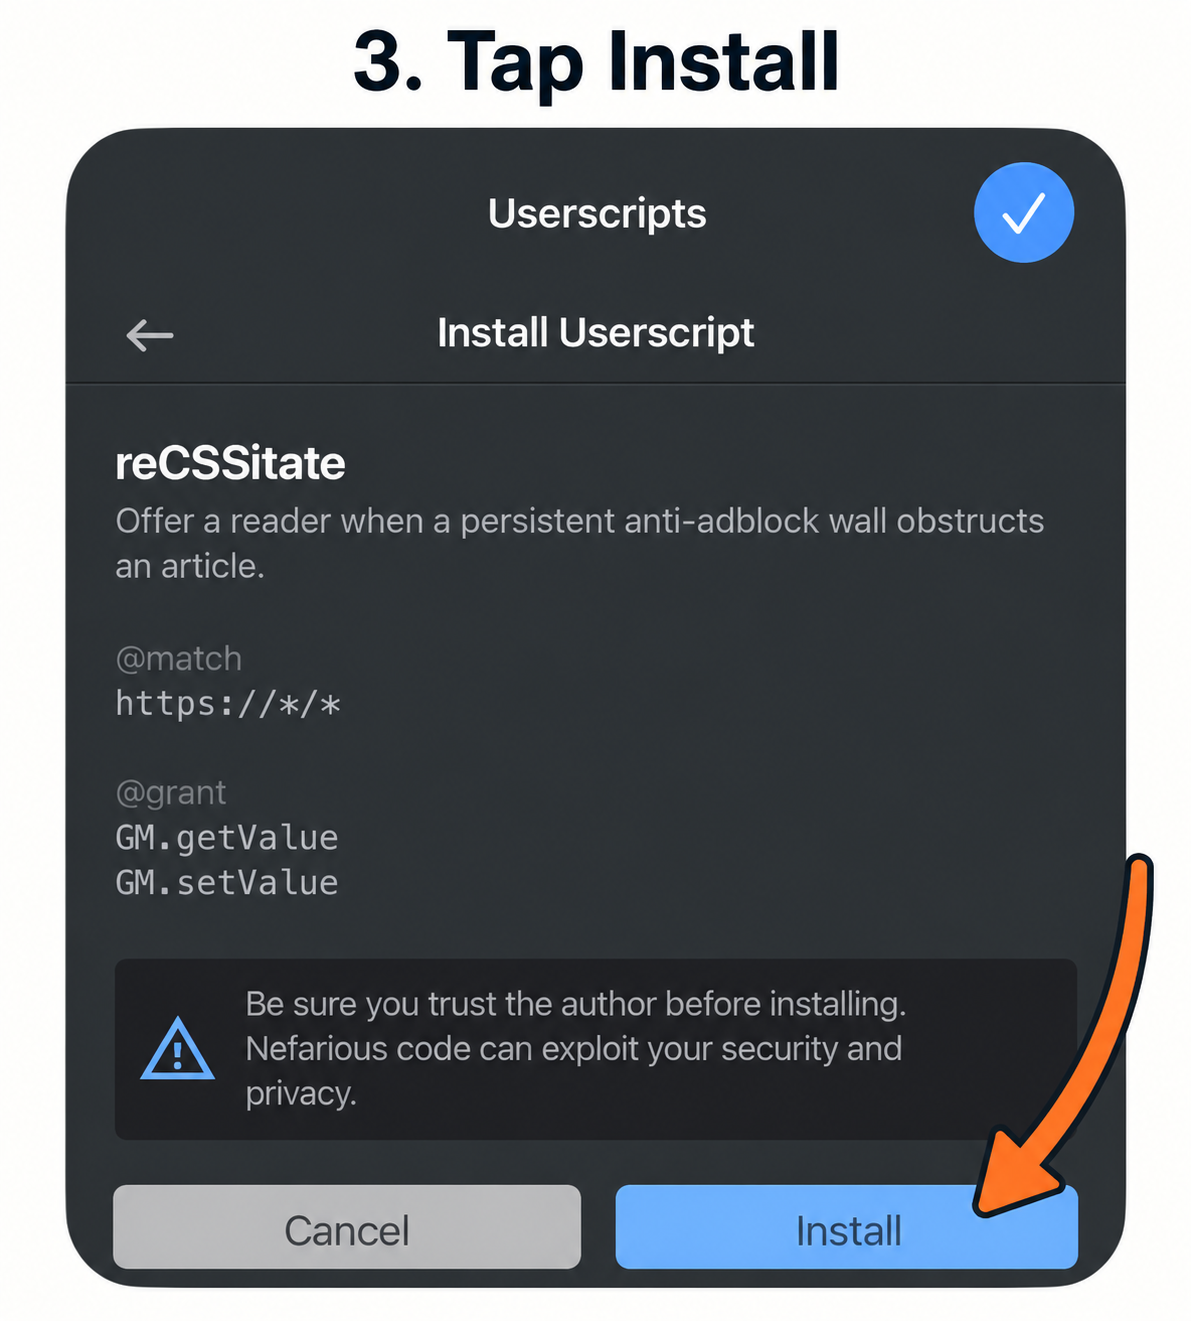
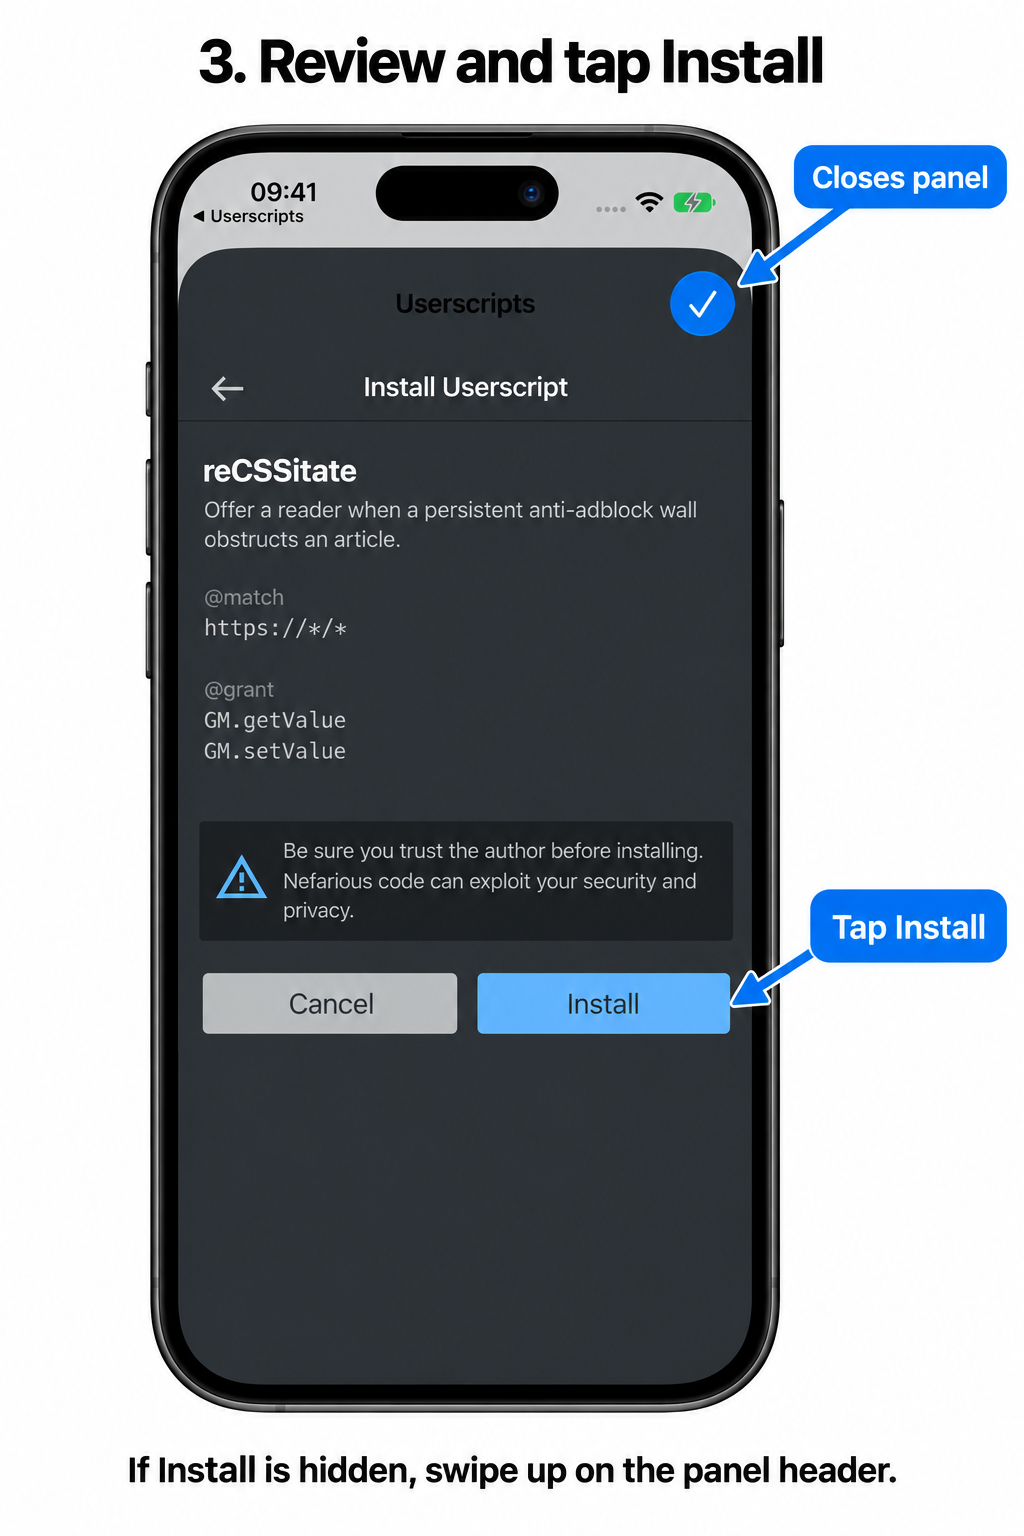
docs: refresh iPhone guides with full-device simulator captures

diff --git a/web/index.html b/web/index.html
@@ -4,11 +4,12 @@
 <form id="open"><label for="url">Article address</label><div class="controls"><input id="url" type="url" required placeholder="https://…" autocomplete="off"><button>Read article</button></div></form>
 <p><a id="signin" href="/signin">Sign in to the reader</a></p><p id="status" role="status" aria-live="polite"></p><p><a id="original" hidden rel="noreferrer" target="_blank">Open original article</a></p>
 <section id="setup"><h2>One-tap bookmark</h2><p>No extension needed. When an article gets stuck, tap this bookmark to open it here.</p><p><a id="bookmarklet">Read with reCSSitate</a> <button id="copy-bookmarklet" type="button">Copy bookmarklet</button></p><label for="bookmarklet-code">Bookmark address</label><textarea id="bookmarklet-code" readonly rows="3"></textarea><p>On iPhone: bookmark this page, then open Safari’s bookmarks, tap Edit, and replace that bookmark’s address with the copied code. Name it “reCSSitate”. Open a news article and choose the bookmark to use it.</p><h2>Automatic rescue button</h2><p>Install the free <a href="https://github.com/quoid/userscripts" rel="noreferrer">Userscripts extension for Safari</a>, enable it in iOS Settings → Apps → Safari → Extensions, and allow it on the news sites you read. Then open the script below and choose Userscripts from Safari’s extensions menu to install it.</p><p><a href="/recssitate.user.js">Install reCSSitate userscript</a></p><details id="ios-install"><summary>iPhone installation, step by step</summary>
-<p>After enabling the Userscripts Safari extension, open the script link above. Seeing JavaScript source is expected. Allow Userscripts access to your reader server.</p>
+<p>Open the Userscripts app once to initialize its scripts folder. After enabling its Safari extension, open the script link above. Seeing JavaScript source is expected. Allow Userscripts access to your reader server.</p>
 <div class="install-steps">
-<figure><img src="/assets/ios-install/01-open-userscripts.png" alt="Step 1: in Safari on iOS 27, tap the three-line Page Menu icon at the left of the address field, then choose Userscripts." loading="lazy"><figcaption>In the <strong>Safari app on iOS 27</strong>, tap <strong>Page Menu</strong> at the <strong>left of the address field</strong>—the three-line icon with a shorter bottom line. Then choose <strong>Userscripts</strong>. If the toolbar is hidden, tap the bottom of the screen to reveal it.</figcaption></figure>
+<figure><img src="/assets/ios-install/01-open-userscripts.png" alt="Step 1a: full iPhone screen in Safari on iOS 27, with the three-line Page Menu icon at the left of the address field highlighted." loading="lazy"><figcaption>In the <strong>Safari app on iOS 27</strong>, tap <strong>Page Menu</strong> at the <strong>left of the address field</strong>—the three-line icon with a shorter bottom line. If the toolbar is hidden, tap the bottom of the screen to reveal it.</figcaption></figure>
+<figure><img src="/assets/ios-install/01b-choose-userscripts.png" alt="Step 1b: scroll inside Safari’s Page Menu and tap Userscripts." loading="lazy"><figcaption>Scroll <strong>inside Page Menu</strong> if needed, then tap <strong>Userscripts</strong>. If it says <strong>Permission Required</strong>, choose <strong>Always Allow… → Always Allow on This Website</strong> for your reader. Open Userscripts again if the menu closes.</figcaption></figure>
 <figure><img src="/assets/ios-install/02-detected.png" alt="Step 2: tap the yellow Userscript Detected banner." loading="lazy"><figcaption>Tap the yellow <strong>Userscript Detected: Tap to install</strong> banner.</figcaption></figure>
-<figure><img src="/assets/ios-install/03-install.png" alt="Step 3: review reCSSitate and tap the blue Install button at the bottom." loading="lazy"><figcaption>Check that the script is <strong>reCSSitate</strong>, then tap <strong>Install</strong> at the bottom. The checkmark at the top only closes the popup.</figcaption></figure>
+<figure><img src="/assets/ios-install/03-install.png" alt="Step 3: full iPhone screen with an expanded Userscripts panel and an arrow pointing to the blue Install button below the warning." loading="lazy"><figcaption>Check that the script is <strong>reCSSitate</strong>, then tap <strong>Install</strong> below the warning. If the button is cut off, <strong>swipe up on the panel header</strong> to expand it. The checkmark at the top only closes the popup.</figcaption></figure>
 <figure><img src="/assets/ios-install/04-installed.png" alt="Step 4: confirm the green installed banner and tap the blue checkmark to close." loading="lazy"><figcaption>The green banner confirms installation. Leave the switch on and tap the blue checkmark to close. You do not need to re-install.</figcaption></figure>
 </div><p>Return to an article and reload it if it was already open. Allow the extension on the sites where you want the button. Readable pages will not show a rescue button.</p></details><p>The button appears only after a large anti-adblock obstruction persists. It never sends an article here until you tap. You can also paste an article address above.</p></section>
 <iframe id="article" title="Readable article" sandbox="allow-popups allow-popups-to-escape-sandbox" referrerpolicy="no-referrer" hidden></iframe>

diff --git a/docs/IOS-CERTIFICATE.md b/docs/IOS-CERTIFICATE.md
@@ -5,10 +5,10 @@ Safari warns that the connection is not private. Installing the certificate and
 enabling SSL/TLS trust are **two separate steps**. Do this once on each device.
 If your reader already uses a publicly trusted certificate, skip this guide.
 
-The two annotated reference images below are adapted from Apple's published
-screenshots. They illustrate the relevant controls in an older iOS layout;
-they are **not captures of iOS 27**. Account information has been removed, and
-no deployment addresses or real certificate details are included.
+The images show the full screen of an **iPhone 17 Pro simulator running iOS 27**,
+with device frames and arrows added. A disposable **reCSSitate Demo CA** stands
+in for your server's certificate. Addresses and device identifiers are blacked
+out; no personal account or production certificate is shown.
 
 You need the **public root CA certificate** and the HTTPS reader address from
 the person who runs your server. Ask them to confirm the certificate's name and
@@ -25,13 +25,15 @@ message. This downloads the certificate; it does not install it yet.
 The download address and reader address may be different. Use the links your
 administrator provides. Do not install an example certificate from a tutorial.
 
+<img src="assets/ios-certificate/01-download.png" alt="Full iPhone screen in Safari, with an arrow pointing to Allow in the configuration-profile download prompt. The address is blacked out." width="720">
+
 ## 2. Open the downloaded profile in Settings
 
 Open **Settings**, then tap **Profile Downloaded** near the top. If that shortcut
 is absent, look under **General → VPN & Device Management** and select the
 downloaded profile.
 
-<img src="assets/ios-certificate/02-profile-downloaded.png" alt="Annotated Apple reference image: open Settings and tap the Profile Downloaded row." width="720">
+<img src="assets/ios-certificate/02-profile-downloaded.png" alt="Full iOS 27 Settings screen, with an arrow pointing to Profile Downloaded." width="720">
 
 Install promptly: iOS removes a downloaded profile after eight minutes if you
 have not installed it. If it disappeared, download it again.
@@ -48,10 +50,14 @@ when installation finishes. A local root may be described as not verified before
 you trust it; confirm its identity with your administrator rather than trusting
 an unfamiliar profile.
 
+<img src="assets/ios-certificate/03-install.png" alt="Full iPhone Install Profile screen for a demo certificate, with an arrow pointing to Install in the top-right corner." width="720">
+
 ## 4. Find Certificate Trust Settings
 
 In **Settings**, go to **General → About**, scroll to the bottom, then tap
 **Certificate Trust Settings**.
+
+<img src="assets/ios-certificate/04-about.png" alt="Full iPhone About screen, with the device identifier blacked out and an arrow pointing to Certificate Trust Settings near the bottom." width="720">
 
 ## 5. Enable full trust
 
@@ -59,7 +65,7 @@ Under **Enable Full Trust for Root Certificates**, turn on the switch for your
 reader's root certificate. Confirm the **Root Certificate** warning with
 **Continue**. Leave unrelated certificates alone.
 
-<img src="assets/ios-certificate/05-enable-trust.png" alt="Annotated Apple reference image: in Certificate Trust Settings, enable the switch for your own reader's root certificate. Certificate 1 and Certificate 2 are example names." width="720">
+<img src="assets/ios-certificate/05-enable-trust.png" alt="Full iPhone Certificate Trust Settings screen, with an arrow pointing to the enabled green switch for the demo root certificate. Enable your own reader's certificate." width="720">
 
 Caddy's default name commonly starts with **Caddy Local Authority**; your
 administrator may have chosen another name. If the certificate does not appear,
@@ -70,6 +76,8 @@ finish installing its profile in steps 2–3 first.
 Return to Safari and reopen your reader's **HTTPS** address. The certificate
 warning should be gone. Choose **Sign in to the reader** and enter the reader
 username and password supplied by your administrator.
+
+<img src="assets/ios-certificate/06-reader.png" alt="Full iPhone Safari screen showing the reader without a certificate warning, with an arrow pointing to Sign in to the reader. Addresses and bookmark code are blacked out." width="720">
 
 If a warning remains, verify that full trust is enabled and that you opened the
 exact hostname or IP address covered by the server certificate. Also check the
@@ -100,7 +108,6 @@ Management**, select its profile, and tap **Remove Profile**.
 - [Install a configuration profile](https://support.apple.com/en-ae/102400)
 - [Trust a manually installed certificate](https://support.apple.com/en-ie/102390)
 
-The illustrations are cropped and annotated adaptations of the screenshots in
-these Apple articles, with account details omitted. Apple's interface images
-remain Apple's property and are not covered by this project's MIT licence.
-Screen wording and layout can vary by iOS version.
+Screens were captured in a clean simulator, then annotated and framed for this
+guide. Apple's interface remains Apple's property and is not covered by this
+project's MIT licence. Screen wording and layout can vary by iOS version.

diff --git a/docs/IOS.md b/docs/IOS.md
@@ -4,9 +4,10 @@ If Safari warns about your reader's certificate, first follow the
 [iPhone certificate installation and trust guide](IOS-CERTIFICATE.md).
 
 After installing the [Userscripts app](https://github.com/quoid/userscripts),
-enable its Safari extension and allow access to your reader server and the sites
-where you want the rescue button. Open your reader's landing page in Safari and
-tap **Install reCSSitate userscript**. Seeing JavaScript source is expected.
+open it once to initialize its scripts folder. Enable its Safari extension and
+allow access to your reader server and the sites where you want the rescue
+button. Open your reader's landing page in Safari and tap **Install reCSSitate
+userscript**. Seeing JavaScript source is expected.
 
 ## 1. Open Page Menu inside Safari (iOS 27)
 
@@ -17,7 +18,14 @@ a shorter bottom line. Then choose **Userscripts** from that menu.
 The address field may be at the top or bottom depending on your Safari layout.
 If the toolbar is hidden, tap the bottom of the screen to reveal it.
 
-<img src="../web/assets/ios-install/01-open-userscripts.png" alt="In Safari on iOS 27, tap the three-line Page Menu icon at the left of the address field, then choose Userscripts." width="640">
+<img src="../web/assets/ios-install/01-open-userscripts.png" alt="Full iPhone screen in Safari on iOS 27, with an arrow pointing to the three-line Page Menu icon at the left of the bottom address field." width="640">
+
+Scroll **inside Page Menu** if Userscripts is not visible. If it says
+**Permission Required**, tap it, choose **Always Allow…**, then
+**Always Allow on This Website** to grant access to your reader. Open Userscripts
+again if Safari closes the menu after granting access.
+
+<img src="../web/assets/ios-install/01b-choose-userscripts.png" alt="Full iPhone Safari screen with Page Menu scrolled down and an arrow pointing to Userscripts. A Permission Required label means website access must be granted." width="640">
 
 ## 2. Tap the yellow install banner
 
@@ -28,10 +36,11 @@ In the Userscripts popup, tap **Userscript Detected: Tap to install**.
 ## 3. Confirm Install
 
 Check that the script is **reCSSitate**, review its details, and tap the blue
-**Install** button at the bottom. The checkmark at the top closes the popup;
-it is not the Install button.
+**Install** button below the warning. If the button is cut off, **swipe up on
+the Userscripts panel header** to expand it, as shown below.
+The checkmark at the top closes the popup; it is not the Install button.
 
-<img src="../web/assets/ios-install/03-install.png" alt="Arrow pointing to the blue Install button at the bottom of the confirmation screen." width="640">
+<img src="../web/assets/ios-install/03-install.png" alt="Full iPhone screen with the Userscripts panel expanded, an arrow pointing to Install below the warning, and a separate label explaining that the top checkmark only closes the panel." width="640">
 
 ## 4. Check the green confirmation
 
@@ -49,10 +58,11 @@ grant access on the sites where you want the script to run.
 If no yellow banner appears, make sure Safari is showing the `.user.js` link
 from your own reader server and Userscripts has access to that server.
 
-These annotated illustrations are adapted from user-supplied screenshots.
-Code and deployment details have been omitted. Layout may vary by iOS and
-Userscripts version.
+These images use full-screen captures from a clean **iPhone 17 Pro simulator
+running iOS 27**, with device frames and annotations added. Userscripts was built
+from its stable release source (iOS 1.8.6). Addresses are blacked out, and the
+script uses a fictional example server. Layout may vary by iOS and Userscripts
+version.
 
 The iOS 27 Page Menu icon and its location were checked against
 [Apple’s iOS 27 Safari guide](https://support.apple.com/guide/iphone/customize-your-safari-settings-iphb3100d149/27/ios/27).
-Step 1 illustrates the address field and menu choice; it is not a full-screen capture.
